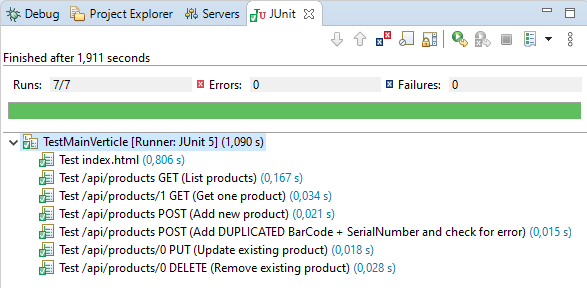
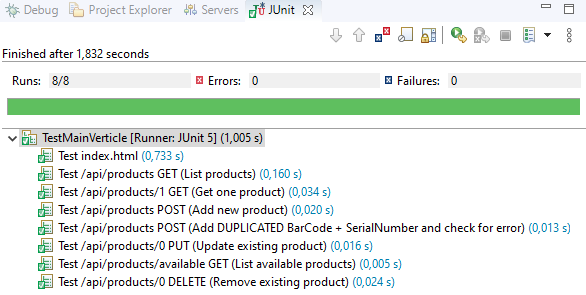
List available products endpoint

diff --git a/src/main/java/mzk/service/ProductService.java b/src/main/java/mzk/service/ProductService.java
@@ -26,15 +26,24 @@ public class ProductService {
 		createMockData();
 		
 		router.get("/api/products").handler(this::getAll);
+		router.get("/api/products/available").handler(this::getAllAvailable);
 	    router.route("/api/products*").handler(BodyHandler.create());
 	    router.post("/api/products").handler(this::add);
 	    router.get("/api/products/:id").handler(this::get);
 	    router.put("/api/products/:id").handler(this::update);
 	    router.delete("/api/products/:id").handler(this::delete);
 	}
-
+	
 	public void getAll(RoutingContext routingContext) {
-		routingContext.response().putHeader("content-type", "application/json; charset=utf-8").end(Json.encodePrettily(products.values()));
+		routingContext.response().putHeader("content-type", "application/json; charset=utf-8").end(
+				Json.encodePrettily(products.values())
+				);
+	}
+	
+	public void getAllAvailable(RoutingContext routingContext) {
+		routingContext.response().putHeader("content-type", "application/json; charset=utf-8").end(
+				Json.encodePrettily(products.values().stream().filter(p -> !p.isSold()).collect(Collectors.toList()))
+				);
 	}
 	
 	public void get(RoutingContext routingContext) {

diff --git a/src/test/java/mzk/TestMainVerticle.java b/src/test/java/mzk/TestMainVerticle.java
@@ -156,7 +156,7 @@ public class TestMainVerticle {
 	
 	@Test
 	@Order(6)
-	@DisplayName("Test /api/products/0 PUT (Update existing product)")
+	@DisplayName("Test /api/products/0 PUT (Update existing product, mark as sold)")
 	public void checkApiUpdateProduct(WebClient webClient, Vertx vertx, VertxTestContext testContext) {
 
 		int productId = 0;
@@ -197,6 +197,19 @@ public class TestMainVerticle {
 	
 	@Test
 	@Order(7)
+	@DisplayName("Test /api/products/available GET (List available products)")
+	void checkApiGetListAvailableProducts(WebClient webClient, Vertx vertx, VertxTestContext testContext) {
+		webClient.get(API_PRODUCTS + "/available").as(BodyCodec.string())
+				.send(testContext.succeeding(resp -> {
+					testContext.verify(() -> {
+						assertEquals(200, resp.statusCode());
+						testContext.completeNow();
+					});
+				}));
+	}
+	
+	@Test
+	@Order(8)
 	@DisplayName("Test /api/products/0 DELETE (Remove existing product)")
 	public void checkApiDeleteProduct(WebClient webClient, Vertx vertx, VertxTestContext testContext) {
 		
